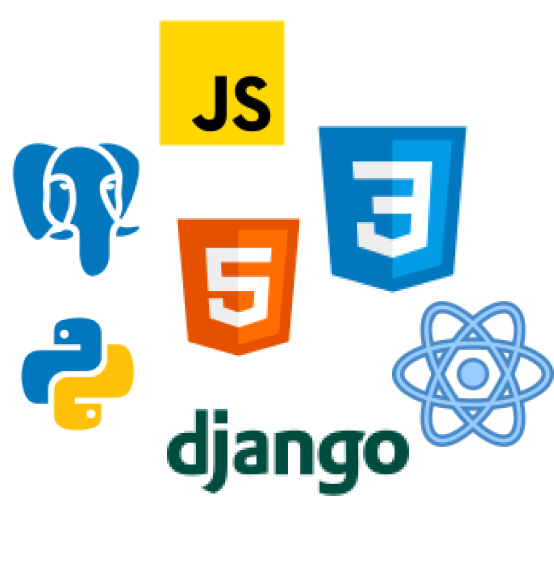
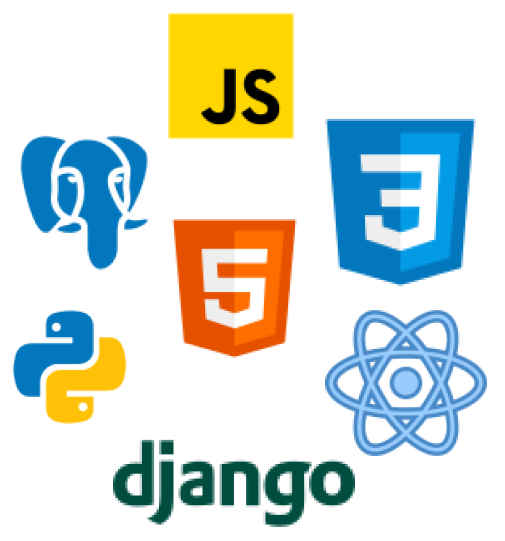
fix

diff --git a/pages/index.js b/pages/index.js
@@ -6,9 +6,9 @@ export default function Home() {
   return (
     <div>
       <Head>
-        <title>Techy</title>
-        <meta name="description" content="Techy" />
-        <link rel="icon" href="/images/techy_1.png" />
+        <title>Devhat</title>
+        <meta name="description" content="Devhat" />
+        <link rel="icon" href="/images/devhat.png" />
 
         {/* Boostrap */}
         <link href="https://cdn.jsdelivr.net/npm/bootstrap@5.1.3/dist/css/bootstrap.min.css" rel="stylesheet" integrity="sha384-1BmE4kWBq78iYhFldvKuhfTAU6auU8tT94WrHftjDbrCEXSU1oBoqyl2QvZ6jIW3" crossOrigin="anonymous" />
@@ -19,12 +19,13 @@ export default function Home() {
       <nav className="navbar navbar-expand-lg navbar-light bg-white" id='#'>
         <div className="container-fluid px-lg-5 py-3">
           <a className="navbar-brand" href="#">
-            <Image
+            <h1>Devhat</h1>
+            {/* <Image
               src="/images/techy_1.png"
               alt="Image"
               width={86}
               height={43}
-            />
+            /> */}
           </a>
           <button className="navbar-toggler" type="button" data-bs-toggle="collapse" data-bs-target="#navbarSupportedContent" aria-controls="navbarSupportedContent" aria-expanded="false" aria-label="Toggle navigation">
             <span className="navbar-toggler-icon"></span>
@@ -53,16 +54,18 @@ export default function Home() {
         </div>
       </nav>
       <div className={styles.bg_img_5}>
-        <div className='container mb-5'>
+        <div className='container-fluid mb-5'>
           <div className={styles.container_1}>
             <div className='row py-4 px-lg-5'>
-              <div className='col-lg-6'>
+              <div className='col-lg-6 mb-4'>
                 <div className="d-flex justify-content-center">
                   <div className='' style={{ maxWidth: '100%'}}>
                     <h1 className={styles.text_1}>Let<span>&#39;</span>s make you,</h1>
                     <h1 className={styles.text_1}>an eye catching</h1>
                     <h1 className={styles.text_2}>designs.</h1>
-                    <p className={styles.text_3}>Stand out from the rest with your very own <br />
+                    <p className={`d-none d-sm-none d-md-block ${styles.text_3}`}>Stand out from the rest with your very own <br />
+                      elegant and unique design.</p>
+                    <p className={`d-block d-sm-block d-md-none ${styles.text_3}`} style={{maxWidth:300}}>Stand out from the rest with your very own
                       elegant and unique design.</p>
                     <a className="" href="#">
                       <div className={styles.button_1}>
@@ -167,32 +170,28 @@ export default function Home() {
         <section id='technologies'>
           <div className='container-fluid'>
             <div className='row py-5 mt-5 mx-0'>
-              <div className='col-lg-6'>
+              <div className='col-lg-6 mb-4'>
                 <div className="d-flex justify-content-center">
                   <Image
                     src="/images/Group_1.png"
                     alt="Image"
-                    width={554}
-                    height={571}
+                    width={505}
+                    height={541}
                   />
                 </div>
               </div>
-              <div className='col-lg-6'>
-                <div className={styles.bg_img_1}>
+              <div className='col-lg-6 mb-4'>
+                <div className={styles.bg_img_1} style={{maxWidth:600}}>
                   <h1 className={styles.text_6}>How we use these,</h1>
                   <h1 className={styles.text_7}>Technologies</h1>
                   <p className={styles.text_8}>In a professional context it often happens that private or
-                    <br />
                     corporate clients corder a publication to be made and
-                    <br />
                     presented with the actual content still not being ready.
-                    <br />
                     Think of a news blog that<span>&#39;</span>s filled with content hourly on
-                    <br />
                     the day of going live. </p>
                   <a className="" href="#">
                     <div className={styles.button_2}>
-                      <div className="d-flex align-items-center justify-content-center" style={{ height: 59, width: 302 }}>
+                      <div className="d-flex align-items-center justify-content-center" style={{ height: 59, width: 300 }}>
                         <div>
                           Book now <i className="fa-solid fa-arrow-right-long fa-lg ps-2"></i>
                         </div>
@@ -214,7 +213,9 @@ export default function Home() {
 
             </div>
           </div>
-          <p className={styles.text_11}>we work as a Python development agency for 13+ years and are able to cover  <br />the business may need</p>
+          <p className={`d-none d-md-none d-lg-block ${styles.text_11}`}>we work as a Python development agency for 13+ years and are able to cover  <br />the business may need</p>
+          <p className={`d-block d-md-block d-lg-none ${styles.text_11}`}>we work as a Python development agency for 13+ years and are able to cover the business may need</p>
+
           <div className={styles.bg_img_2}>
             <div className='row py-lg-5 mt-lg-5 mx-0'>
               <div className='col-lg-4 d-flex justify-content-center mb-4'>
@@ -289,20 +290,16 @@ export default function Home() {
 
       <section id='cloud'>
         <div className={`container ${styles.bg_img_3}`}>
-          <div className='row py-5 mt-5 mx-0'>
+          <div className='row py-5 my-5 mx-0'>
             <div className='col-lg-6 mb-4'>
               <div className="d-flex justify-content-center">
                 <div >
                   <h1 className={styles.text_6}>Our</h1>
                   <h1 className={`${styles.text_9} mb-5`}>Cloud Providers</h1>
                   <p className={styles.text_8}>In a professional context it often happens that private or
-                    <br />
                     corporate clients corder a publication to be made and
-                    <br />
                     presented with the actual content still not being ready.
-                    <br />
                     Think of a news blog that<span>&#39;</span>s filled with content hourly on
-                    <br />
                     the day of going live. </p>
                   <a className="" href="#">
                     <div className={styles.button_2}>
@@ -321,8 +318,8 @@ export default function Home() {
                 <Image
                   src="/images/Group_3.png"
                   alt="Image"
-                  width={661}
-                  height={415}
+                  width={578}
+                  height={413}
                 />
               </div>
             </div>
@@ -344,6 +341,7 @@ export default function Home() {
                 </div>
                 <p className={styles.text_17}>Enter your email address to book now
                   <br />and get you signup coupon</p>
+
                 <div className="d-flex justify-content-center">
                   <div className={styles.container_4}>
                     <form action="" method="post">
@@ -351,7 +349,7 @@ export default function Home() {
                         <input type="email" className="form-control form-control-lg border-0" placeholder='Your email' aria-label="Your email" />
                         <a type="submit">
                           <div className={styles.button_3}>
-                            <div className="d-flex align-items-center justify-content-center" style={{ height: 57, width: 147 }}>
+                            <div className="d-flex align-items-center justify-content-center" style={{ height: 57, maxWidth: 147 }}>
                               Book now
                             </div>
                           </div>
@@ -373,12 +371,13 @@ export default function Home() {
           <div className='row mx-0'>
             <div className='col-lg-2 mb-4'>
               <div className="d-flex justify-content-center">
-                <Image
+                <h1 className='text-light'>Devhat</h1>
+                {/* <Image
                   src="/images/techy_2.png"
                   alt="Image"
                   width={82}
                   height={41}
-                />
+                /> */}
               </div>
             </div>
             <div className='col-lg-8 mb-4'>

diff --git a/styles/Home.module.css b/styles/Home.module.css
@@ -41,7 +41,7 @@
  }
  .text_3 {
    font-weight: 300;
-   font-size: 14px;
+   font-size: 16px;
    line-height: 27px;
    color: #3F2C40;
  }
@@ -87,7 +87,7 @@
 
 .text_11 {
   font-weight: 400;
-  font-size: 15px;
+  font-size: 18px;
   line-height: 34px;
   color: #000000;
   text-align: center;
@@ -121,6 +121,18 @@
   color: #FFFFFF;
 }
 
+.button_3 {
+  width: 117px;
+  height: 57px;
+  border-radius: 17px;
+  margin: 0 0 0 5px !important;
+  background-color: #24AAE2 !important;
+  color: #FFFFFF;
+  font-weight: 700;
+  font-size: 16px;
+  line-height: 25px;
+}
+
 
 }
 
@@ -151,7 +163,7 @@
     background-image: url("/images/Polygon_2.png");
     background-repeat: no-repeat;
     background-size: auto;
-    background-position: 30px 30px;
+    background-position: 0px 20px;
     padding-top: 50px;
   }
   .text_2 {
@@ -180,7 +192,7 @@
 
 .text_11 {
   font-weight: 400;
-  font-size: 25px;
+  font-size: 20px;
   line-height: 34px;
   color: #000000;
   text-align: center;
@@ -213,6 +225,18 @@
   font-size: 20px;
   line-height: 27px;
   color: #FFFFFF;
+}
+
+.button_3 {
+  width: 147px;
+  height: 57px;
+  border-radius: 17px;
+  margin: 0 0 0 5px !important;
+  background-color: #24AAE2 !important;
+  color: #FFFFFF;
+  font-weight: 700;
+  font-size: 18px;
+  line-height: 25px;
 }
 
 
@@ -276,9 +300,6 @@
 }
 
 
-
-
-
 .text_18:hover {
   color: #3F2C40;
 }
@@ -292,7 +313,7 @@
 
 .button_1 {
   margin: 0 !important;
-  max-width: 302px;
+  max-width: 300px;
   height: 59px;
   background-color: #3F2C40 !important;
   border-radius: 20px;
@@ -314,24 +335,13 @@
   line-height: 27px;
 }
 
-.button_3 {
-  width: 147px;
-  height: 57px;
-  border-radius: 17px;
-  margin: 0 0 0 5px !important;
-  background-color: #24AAE2 !important;
-  color: #FFFFFF;
-  font-weight: 700;
-  font-size: 18px;
-  line-height: 25px;
-}
+
 
 .bg_img_1 {
   background-image: url("/images/texture.png");
   background-repeat: no-repeat;
   background-size: auto;
   background-position: right bottom;
-
   max-width: 600px;
   height: 520px;
 
